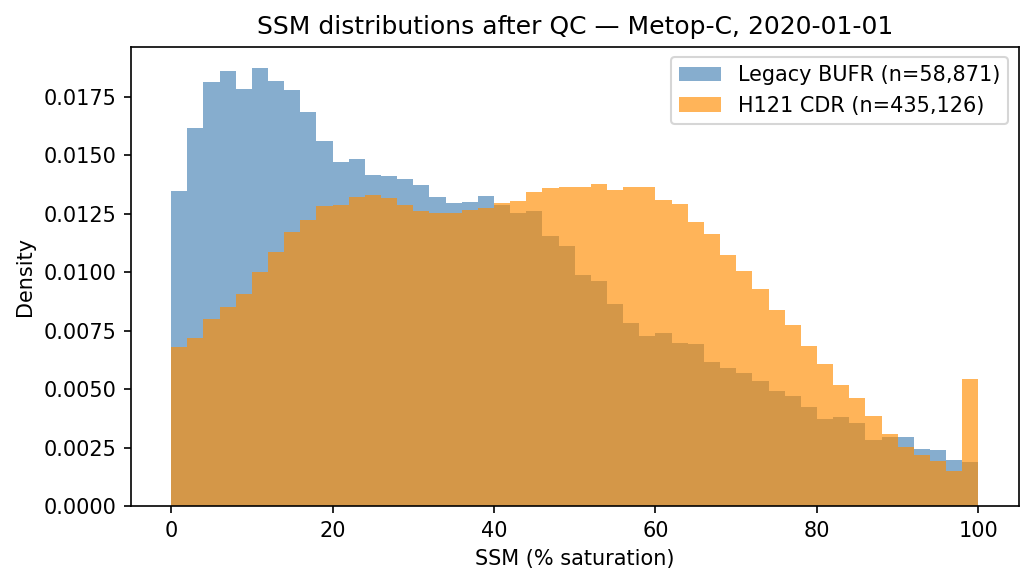
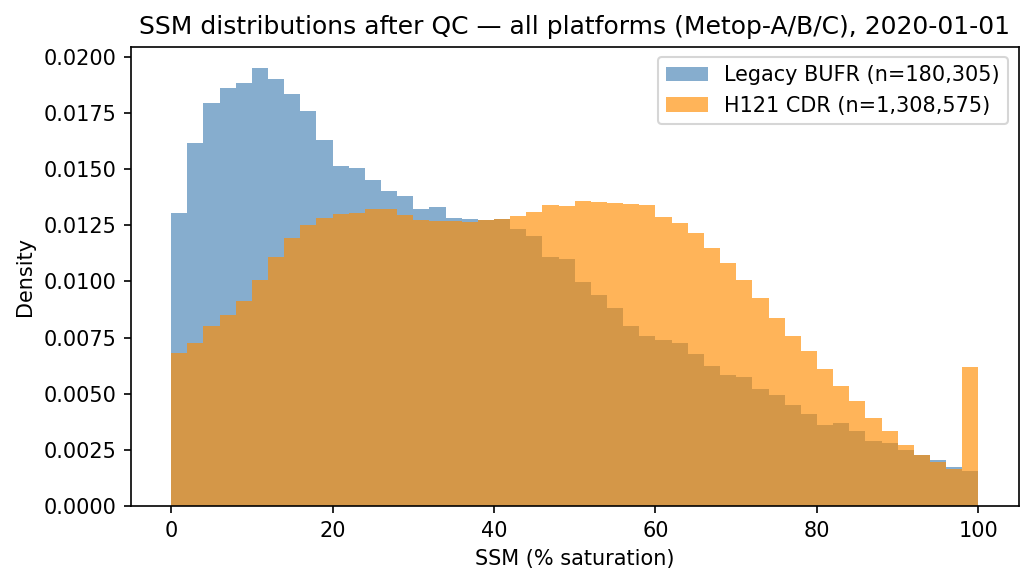
Extend ASCAT H121 report to all platforms; deepen scaling analysis
gen_figures.py:
- Read Legacy BUFR and H121 from all three Metop platforms (A/B/C)
  instead of Metop-C only; requires Metop-A/B BUFR data now present
  in legacy_bufr/metop_a/ and metop_b/

Report updates:
- Section 1: all-platform obs counts (Legacy 180k, H121 1.3M total)
- Section 1.2: updated stats (R=0.68, bias=-1.5 %sat, RMSD=18.7 %sat)
- Section 3: per-platform scaling loss counts (22-25% H121, <10 Legacy)
- Section 3.1: rewrite fig5 caption — unscaled R=0.77 drops to R=0.28
  after applying Legacy scaling params to H121; this degradation (same
  instrument, same passes) is the clearest argument for H121-specific
  scaling factors
- CLAUDE.md: remove retired xr env reference

diff --git a/projects/ascat_da/report/gen_figures.py b/projects/ascat_da/report/gen_figures.py
@@ -14,16 +14,21 @@ import cartopy.crs as ccrs
 import cartopy.feature as cfeature
 
 # ── Config ───────────────────────────────────────────────────────────────────
-BUFR_DIR   = '/Users/amfox/Desktop/ASCAT_SSM_CDR/legacy_bufr/metop_c/2020/01'
-H121_DIR   = '/Users/amfox/Desktop/ASCAT_SSM_CDR/H121/metop_c/2020/01'
+BUFR_BASE  = '/Users/amfox/Desktop/ASCAT_SSM_CDR/legacy_bufr'
+H121_BASE  = '/Users/amfox/Desktop/ASCAT_SSM_CDR/H121'
 OFA_BASE   = '/Users/amfox/Desktop/geosldas-analysis/data/hsaf_cdr_test'
 OFA_SUFFIX = 'output/SMAP_EASEv2_M36_GLOBAL/ana/ens_avg/Y2020/M01'
 OUT_DIR    = os.path.dirname(os.path.abspath(__file__))
 
 DATE     = datetime(2020, 1, 1)
 DATE_STR = '2020-01-01'
-BUFR_PREFIX = 'M03-ASCA-ASCSMO02-NA-5.0-'
 GRID_RES = 0.25
+
+PLATFORMS = {
+    'Metop-A': {'bufr_prefix': 'M02-ASCA-ASCSMO02-NA-5.0-', 'subdir': 'metop_a'},
+    'Metop-B': {'bufr_prefix': 'M01-ASCA-ASCSMO02-NA-5.0-', 'subdir': 'metop_b'},
+    'Metop-C': {'bufr_prefix': 'M03-ASCA-ASCSMO02-NA-5.0-', 'subdir': 'metop_c'},
+}
 
 EXPTS = {
     'monitor':        'hsaf_cdr_test_DAv8_M36',
@@ -163,15 +168,27 @@ def savefig(name):
 
 
 # ── Load data ────────────────────────────────────────────────────────────────
-print('Reading BUFR...')
-bufr_raw = read_bufr(BUFR_DIR, DATE, BUFR_PREFIX)
-bq = qc_bufr(bufr_raw)
-bufr_lat, bufr_lon, bufr_ssm = bufr_raw['lat'][bq], bufr_raw['lon'][bq], bufr_raw['ssm'][bq]
+print('Reading BUFR (all platforms)...')
+bufr_lats, bufr_lons, bufr_ssms = [], [], []
+for plat, cfg in PLATFORMS.items():
+    d = read_bufr(f'{BUFR_BASE}/{cfg["subdir"]}/2020/01', DATE, cfg['bufr_prefix'])
+    q = qc_bufr(d)
+    bufr_lats.append(d['lat'][q]); bufr_lons.append(d['lon'][q]); bufr_ssms.append(d['ssm'][q])
+    print(f'  {plat}: {q.sum():,} obs after QC')
+bufr_lat = np.concatenate(bufr_lats)
+bufr_lon = np.concatenate(bufr_lons)
+bufr_ssm = np.concatenate(bufr_ssms)
 
-print('Reading H121...')
-h121_raw = read_h121(H121_DIR, DATE)
-hq = qc_h121(h121_raw)
-h121_lat, h121_lon, h121_ssm = h121_raw['lat'][hq], h121_raw['lon'][hq], h121_raw['ssm'][hq]
+print('Reading H121 (all platforms)...')
+h121_lats, h121_lons, h121_ssms = [], [], []
+for plat, cfg in PLATFORMS.items():
+    d = read_h121(f'{H121_BASE}/{cfg["subdir"]}/2020/01', DATE)
+    q = qc_h121(d)
+    h121_lats.append(d['lat'][q]); h121_lons.append(d['lon'][q]); h121_ssms.append(d['ssm'][q])
+    print(f'  {plat}: {q.sum():,} obs after QC')
+h121_lat = np.concatenate(h121_lats)
+h121_lon = np.concatenate(h121_lons)
+h121_ssm = np.concatenate(h121_ssms)
 
 print('Reading OFA files...')
 ofa_all = {key: read_ofa(ofa_dir(key)) for key in EXPTS}
@@ -191,7 +208,7 @@ ax.hist(h121_ssm, bins=bins, density=True, alpha=0.65, color='darkorange',
         label=f'H121 CDR (n={len(h121_ssm):,})')
 ax.set_xlabel('SSM (% saturation)')
 ax.set_ylabel('Density')
-ax.set_title(f'SSM distributions after QC — Metop-C, {DATE_STR}')
+ax.set_title(f'SSM distributions after QC — all platforms (Metop-A/B/C), {DATE_STR}')
 ax.legend()
 plt.tight_layout()
 savefig('fig1_ssm_distributions.png')
@@ -206,7 +223,7 @@ ax.plot([0,100],[0,100],'r--',lw=1,label='1:1')
 ax.set_xlim(0,100); ax.set_ylim(0,100)
 ax.set_xlabel('Legacy BUFR SSM (% sat.)')
 ax.set_ylabel('H121 CDR SSM (% sat.)')
-ax.set_title(f'0.25° gridded SSM — Metop-C, {DATE_STR}')
+ax.set_title(f'0.25° gridded SSM — all platforms (Metop-A/B/C), {DATE_STR}')
 ax.legend(fontsize=9)
 ax.text(0.05, 0.95, f'n={both.sum():,}\nbias={bias:+.1f}\nRMSD={rmsd:.1f}\nR={r:.3f}',
         transform=ax.transAxes, va='top', fontsize=9,

diff --git a/projects/ascat_da/report/ascat_h121_integration_test.md b/projects/ascat_da/report/ascat_h121_integration_test.md
@@ -24,21 +24,26 @@ Note: all experiments use the existing Legacy z-score scaling factors as a tempo
 
 ## 1. Raw observation comparison
 
-### 1.1 SSM distributions (Metop-C, point obs)
+### 1.1 SSM distributions (all platforms, point obs)
 
 ![SSM distributions](fig1_ssm_distributions.png)
 
-Both products show broadly similar SSM distributions after QC. The notable difference is the H121 spike near 0% in Legacy BUFR, which reflects frozen soil observations that pass BUFR QC flags but are removed by the H121 processing flag. H121 has approximately 7× more observations than Legacy BUFR at the point level, consistent with the 12.5 km vs ~25 km resolution and fixed Discrete Global Grid structure.
+Both products show broadly similar SSM distributions after QC. The notable difference is the spike near 0% in Legacy BUFR, which reflects frozen soil observations that pass BUFR QC flags but are removed by the H121 processing flag. H121 has approximately 7× more observations than Legacy BUFR in the raw satellite files (before aggregation to the model grid), consistent with the 12.5 km vs ~25 km resolution and fixed Discrete Global Grid structure.
 
-**Obs counts after QC (Metop-C, 2020-01-01):**
-- Legacy BUFR: ~59,000
-- H121 CDR: ~435,000
+**Obs counts after QC (all platforms, 2020-01-01):**
 
-### 1.2 Gridded comparison (0.25° means, Metop-C)
+| Platform | Legacy BUFR | H121 CDR |
+|---|---|---|
+| Metop-A | 65,369 | 426,615 |
+| Metop-B | 56,065 | 446,834 |
+| Metop-C | 58,871 | 435,126 |
+| **Total** | **180,305** | **1,308,575** |
+
+### 1.2 Gridded comparison (0.25° means, all platforms)
 
 ![Gridded SSM scatter](fig2_gridded_ssm_scatter.png)
 
-On a 0.25° grid the two products correlate at R ≈ 0.71 with near-zero bias. The scatter (RMSD ~18 %sat) reflects genuine differences between the two products: different native footprint sizes (12.5 km vs ~25 km) produce different cell means when averaged to 0.25°, and the retrieval algorithms differ between H121 and the Legacy BUFR product.
+Aggregating all three platforms on a 0.25° grid, the two products correlate at R = 0.68 with a small bias of −1.5 %sat (H121 slightly drier) and RMSD = 18.7 %sat. The scatter reflects genuine differences between the two products: different native footprint sizes (12.5 km vs ~25 km) produce different cell means when averaged to 0.25°, and the retrieval algorithms differ between H121 and the Legacy BUFR product.
 
 ---
 
@@ -71,13 +76,13 @@ The H121 obs count (~3× Legacy per platform on the M36 tile grid) is consistent
 
 After applying the Legacy z-score scaling factors to both products, observations are brought into model space: obs means shift from ~0.35–0.40 to ~0.15, closely matching the model forecast (~0.15 m³/m³). Innovation means collapse to near-zero for both products, confirming that the scaling infrastructure is functioning correctly for H121.
 
-H121 loses approximately 25% of observations during scaling (from ~40k to ~31k per platform). The GEOSldas z-score scaling routine rejects any observation whose 0.25° grid cell has no valid scaling parameters — specifically, cells where `o_mean ≤ 0` or `m_mean ≤ 0` in the parameter file. Because the scaling parameters were derived from the Legacy BUFR climatology, cells that Legacy never sampled (due to its sparser native grid or stricter QC) have no valid statistics. H121's denser 12.5 km Fibonacci DGG places observations in many of those cells, and they are silently dropped. The observations themselves are valid; the problem is purely one of missing coverage in the Legacy-derived parameter file. This will be resolved once H121-specific scaling factors are derived.
+H121 loses approximately 22–25% of observations during scaling (39,487→30,774 for Metop-A, 41,489→31,960 for Metop-B, 42,214→33,296 for Metop-C), while Legacy loses fewer than 10 obs per platform. The GEOSldas z-score scaling routine rejects any observation whose 0.25° grid cell has no valid scaling parameters — specifically, cells where `o_mean ≤ 0` or `m_mean ≤ 0` in the parameter file. Because the scaling parameters were derived from the Legacy BUFR climatology, cells that Legacy never sampled (due to its sparser native grid or stricter QC) have no valid statistics. H121's denser 12.5 km Fibonacci DGG places observations in many of those cells, and they are silently dropped. The observations themselves are valid; the problem is purely one of missing coverage in the Legacy-derived parameter file. This will be resolved once H121-specific scaling factors are derived.
 
 ### 3.1 Post-scaling gridded innovation comparison
 
 ![Post-scaling scatter](fig5_postscaling_scatter.png)
 
-After scaling, the gridded Legacy and H121 innovations both have near-zero bias, confirming the scaling is functioning correctly for both products. However, the cell-by-cell correlation between Legacy and H121 scaled innovations is modest (R ≈ 0.28 on the 0.25° grid). This is expected: the two products have different swath coverage on any given day, different native footprint sizes, and different retrieval algorithms, so individual grid cells will rarely contain observations from both products at the same local time. The comparison is also limited by applying Legacy scaling parameters to H121, which introduces additional distortion in H121 innovations in cells where the Legacy climatology is a poor approximation. The key result is the near-zero bias, not the cell-by-cell correlation.
+After scaling, the gridded Legacy and H121 innovations both have near-zero bias, confirming the scaling infrastructure is functioning. However, the cell-by-cell correlation between Legacy and H121 scaled innovations is only R ≈ 0.28 — strikingly lower than the R = 0.77 correlation between their unscaled innovations in the monitor run. Both products derive from the same ASCAT instrument on the same Metop passes, so the degradation is not a sampling issue: the Legacy scaling parameters are actively distorting the spatial pattern of H121 innovations. The z-score transformation uses Legacy climatological means and standard deviations to map H121 into model space; because H121 has a different climatological distribution (different retrieval algorithm, finer footprint averaging), applying Legacy parameters imposes the wrong correction cell by cell, scrambling the spatial structure that was coherent before scaling. This is the clearest argument for deriving H121-specific scaling parameters — the Legacy approximation not only fails to improve H121 but worsens its spatial agreement with Legacy.
 
 ---
 

diff --git a/CLAUDE.md b/CLAUDE.md
@@ -15,7 +15,6 @@ Default environment for almost all work:
 Has: `eccodes`, `cartopy`, `xarray`, `netCDF4`, `numpy`, `matplotlib`, `scipy`, `pyproj`.
 
 Other environments (use only if specifically needed):
-- `xr` — Anaconda, xarray/netCDF4 only, no eccodes
 - `cygnss` — CYGNSS-specific dependencies
 
 **OpenMP / MKL errors on macOS** (e.g. `OMP: Error #15`):
